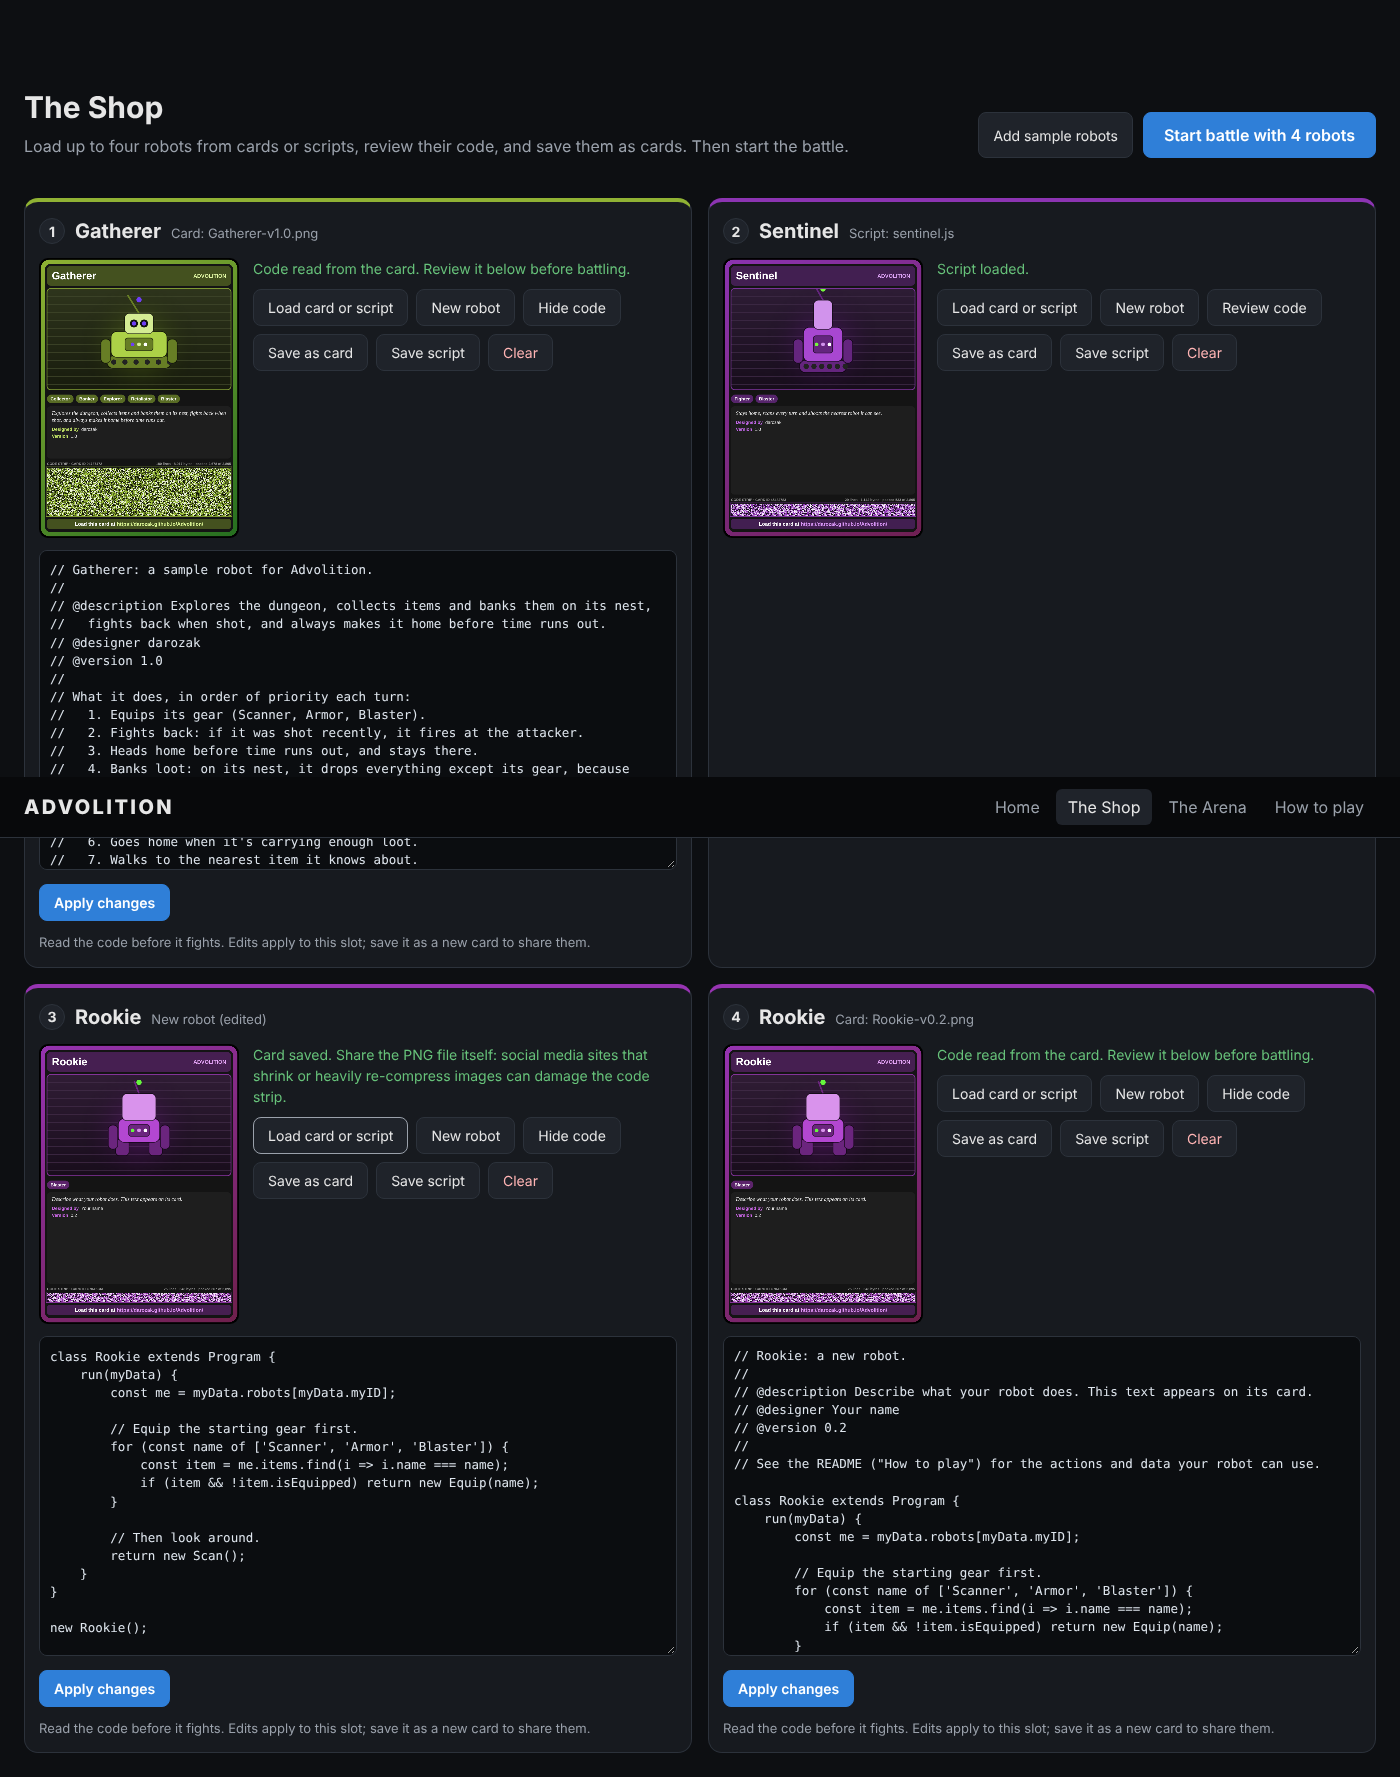
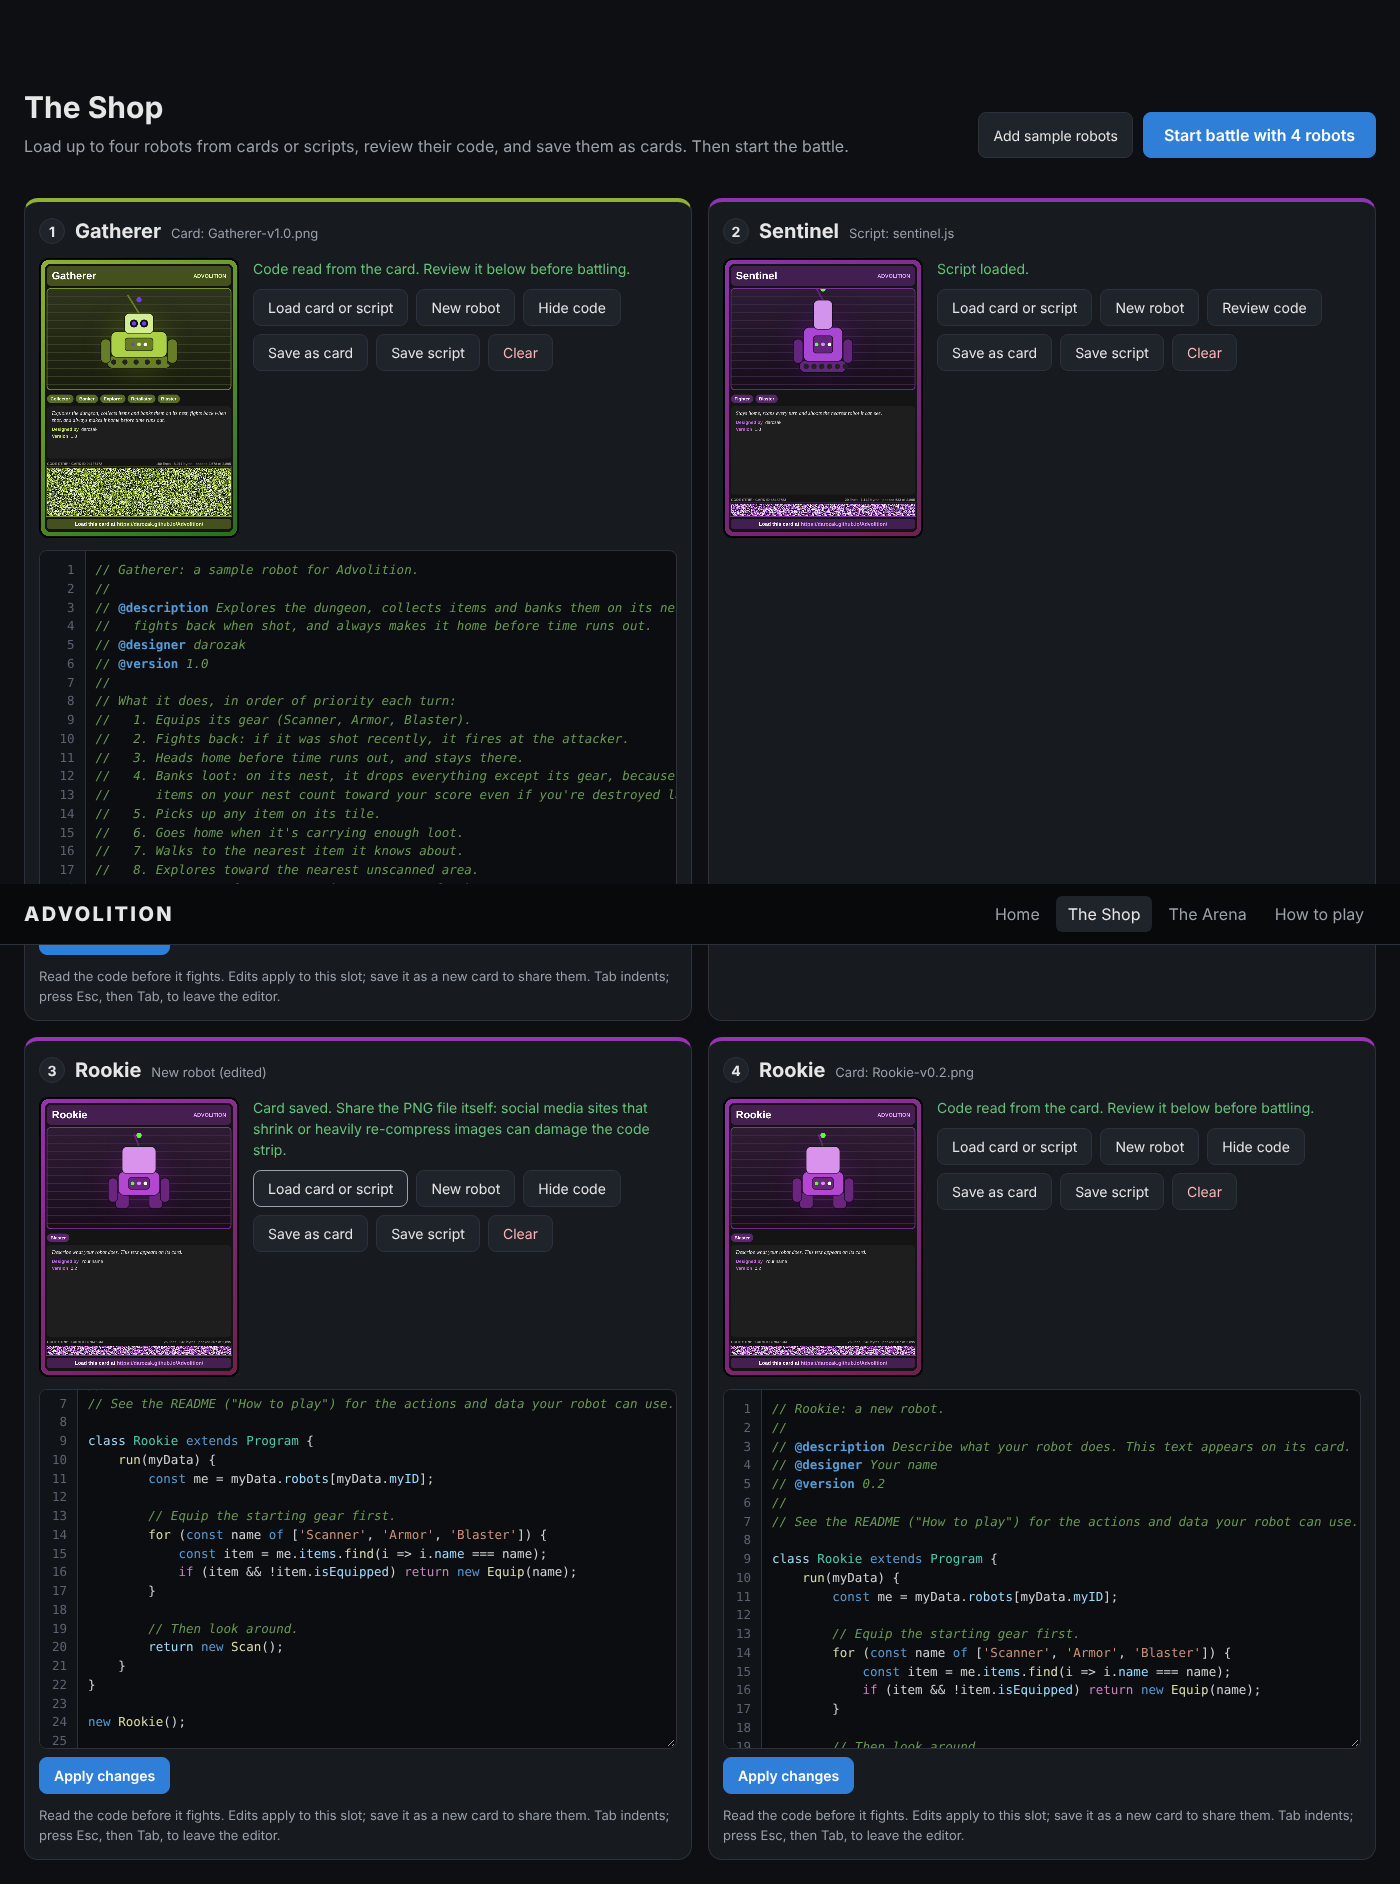
Color regular expressions in the code editors
A "/" starts a regular expression unless it follows something that ends a
value (a name, number, string or closing bracket), apart from words like
return and typeof. Regular expressions are colored red, as in common dark
themes; divisions stay plain. Also finds the previous character by scanning
back instead of matching a regex against all the code before each word.

Claude-Session: https://claude.ai/code/session_01TyGReu1t8K7G9vJf8sBL54

diff --git a/Code/src/code_editor.ts b/Code/src/code_editor.ts
@@ -27,7 +27,29 @@ namespace CodeEditor {
         /('(?:\\[\s\S]|[^'\\\n])*'?|"(?:\\[\s\S]|[^"\\\n])*"?|`(?:\\[\s\S]|[^`\\])*`?)/.source, // 2 string
         /(\b(?:0[xXbBoO][\da-fA-F_]+|\d[\d_]*(?:\.\d*)?(?:[eE][+-]?\d+)?)n?\b|\.\d+\b)/.source, // 3 number
         /([A-Za-z_$][\w$]*)/.source,                                                           // 4 word
+        /(\/(?![*\/])(?:\\.|\[(?:\\.|[^\]\\\n])*\]|[^\/\\\n\[])+\/[dgimsuyv]*)/.source,              // 5 regex (or division)
     ].join('|'), 'g');
+
+    // Words after which a "/" starts a regular expression rather than a division.
+    const BEFORE_REGEX = new Set(['return', 'typeof', 'instanceof', 'in', 'of', 'new', 'delete', 'void', 'throw', 'case', 'do', 'else', 'yield', 'await']);
+
+    // The last non-space character before position i, and the word ending there.
+    function previous(code: string, i: number): { char: string, word: string } {
+        let j = i - 1;
+        while (j >= 0 && /\s/.test(code[j])) j--;
+        if (j < 0) return { char: '', word: '' };
+        let k = j;
+        while (k >= 0 && /[\w$]/.test(code[k])) k--;
+        return { char: code[j], word: code.slice(k + 1, j + 1) };
+    }
+
+    // Whether a "/" at position i begins a regular expression: it does unless
+    // it follows something that ends a value (a name, number, or closing bracket).
+    function startsRegex(code: string, i: number): boolean {
+        const { char, word } = previous(code, i);
+        if (word) return BEFORE_REGEX.has(word) || (CONTROL.has(word) && word !== 'default');
+        return !/[)\]}'"`]/.test(char);
+    }
 
     const escape = (s: string) => s.replace(/&/g, '&amp;').replace(/</g, '&lt;').replace(/>/g, '&gt;');
     const span = (cls: string, text: string) => `<span class="tok-${cls}">${escape(text)}</span>`;
@@ -42,12 +64,18 @@ namespace CodeEditor {
             if (m[1]) {
                 // Comments, with the card's @fields picked out.
                 html += `<span class="tok-comment">${escape(m[1]).replace(/@(description|designer|version)\b/g, '<span class="tok-tag">@$1</span>')}</span>`;
+            } else if (m[5]) {
+                if (startsRegex(code, m.index)) html += span('regex', m[5]);
+                else {
+                    // A division sign: leave it plain and read on from the next character.
+                    html += '/';
+                    TOKENS.lastIndex = last = m.index + 1;
+                }
             } else if (m[2]) html += span('string', m[2]);
             else if (m[3]) html += span('number', m[3]);
             else {
                 const word = m[4];
-                const before = code.slice(0, m.index).match(/(\S)\s*$/);
-                const isProperty = !!before && before[1] === '.';
+                const isProperty = previous(code, m.index).char === '.';
                 const next = code.slice(last).match(/^\s*(\S)/);
                 if (!isProperty && CONTROL.has(word)) html += span('control', word);
                 else if (!isProperty && KEYWORDS.has(word)) html += span('keyword', word);

diff --git a/Code/dist/code_editor.js b/Code/dist/code_editor.js
@@ -27,7 +27,30 @@ var CodeEditor;
         /('(?:\\[\s\S]|[^'\\\n])*'?|"(?:\\[\s\S]|[^"\\\n])*"?|`(?:\\[\s\S]|[^`\\])*`?)/.source, // 2 string
         /(\b(?:0[xXbBoO][\da-fA-F_]+|\d[\d_]*(?:\.\d*)?(?:[eE][+-]?\d+)?)n?\b|\.\d+\b)/.source, // 3 number
         /([A-Za-z_$][\w$]*)/.source, // 4 word
+        /(\/(?![*\/])(?:\\.|\[(?:\\.|[^\]\\\n])*\]|[^\/\\\n\[])+\/[dgimsuyv]*)/.source, // 5 regex (or division)
     ].join('|'), 'g');
+    // Words after which a "/" starts a regular expression rather than a division.
+    const BEFORE_REGEX = new Set(['return', 'typeof', 'instanceof', 'in', 'of', 'new', 'delete', 'void', 'throw', 'case', 'do', 'else', 'yield', 'await']);
+    // The last non-space character before position i, and the word ending there.
+    function previous(code, i) {
+        let j = i - 1;
+        while (j >= 0 && /\s/.test(code[j]))
+            j--;
+        if (j < 0)
+            return { char: '', word: '' };
+        let k = j;
+        while (k >= 0 && /[\w$]/.test(code[k]))
+            k--;
+        return { char: code[j], word: code.slice(k + 1, j + 1) };
+    }
+    // Whether a "/" at position i begins a regular expression: it does unless
+    // it follows something that ends a value (a name, number, or closing bracket).
+    function startsRegex(code, i) {
+        const { char, word } = previous(code, i);
+        if (word)
+            return BEFORE_REGEX.has(word) || (CONTROL.has(word) && word !== 'default');
+        return !/[)\]}'"`]/.test(char);
+    }
     const escape = (s) => s.replace(/&/g, '&amp;').replace(/</g, '&lt;').replace(/>/g, '&gt;');
     const span = (cls, text) => `<span class="tok-${cls}">${escape(text)}</span>`;
     /** Returns the code as HTML with each token wrapped in a colored span. */
@@ -41,14 +64,22 @@ var CodeEditor;
                 // Comments, with the card's @fields picked out.
                 html += `<span class="tok-comment">${escape(m[1]).replace(/@(description|designer|version)\b/g, '<span class="tok-tag">@$1</span>')}</span>`;
             }
+            else if (m[5]) {
+                if (startsRegex(code, m.index))
+                    html += span('regex', m[5]);
+                else {
+                    // A division sign: leave it plain and read on from the next character.
+                    html += '/';
+                    TOKENS.lastIndex = last = m.index + 1;
+                }
+            }
             else if (m[2])
                 html += span('string', m[2]);
             else if (m[3])
                 html += span('number', m[3]);
             else {
                 const word = m[4];
-                const before = code.slice(0, m.index).match(/(\S)\s*$/);
-                const isProperty = !!before && before[1] === '.';
+                const isProperty = previous(code, m.index).char === '.';
                 const next = code.slice(last).match(/^\s*(\S)/);
                 if (!isProperty && CONTROL.has(word))
                     html += span('control', word);

diff --git a/Code/dist/style.css b/Code/dist/style.css
@@ -129,6 +129,7 @@ select { font: inherit; background: var(--panel-2); color: var(--text); border: 
 .tok-tag { color: #569cd6; font-style: normal; font-weight: 600; }
 .tok-string { color: #ce9178; }
 .tok-number { color: #b5cea8; }
+.tok-regex { color: #d16969; }
 .tok-keyword { color: #569cd6; }
 .tok-control { color: #c586c0; }
 .tok-literal { color: #569cd6; }
